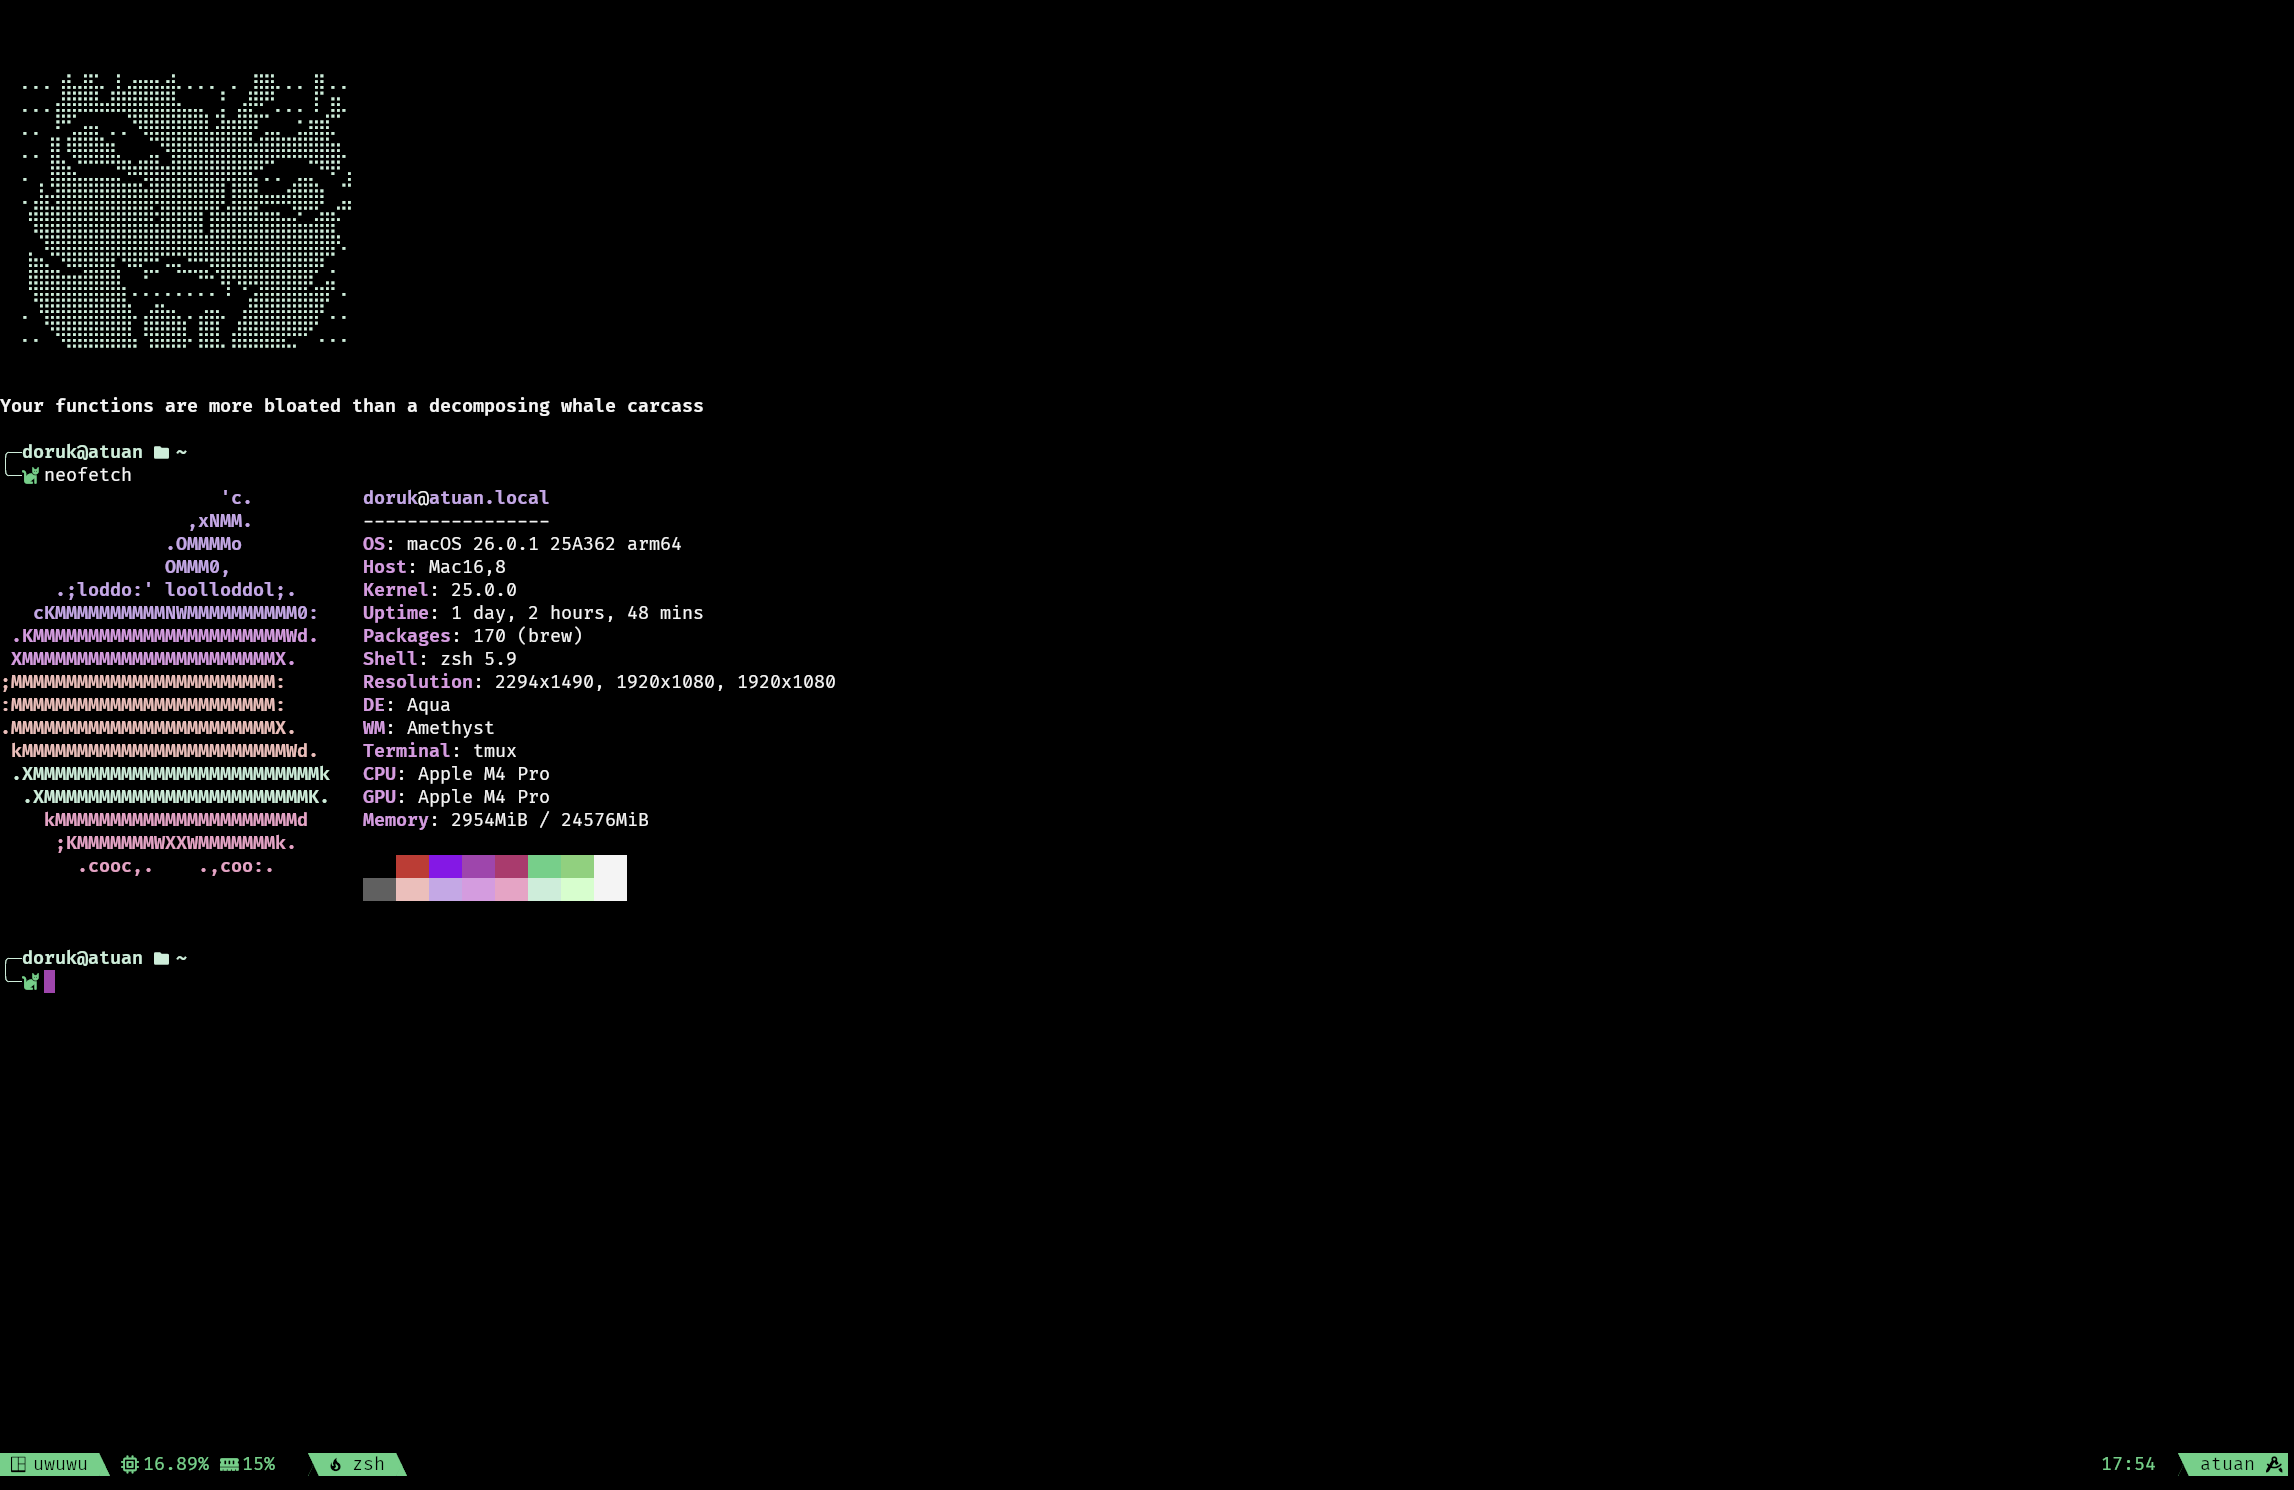
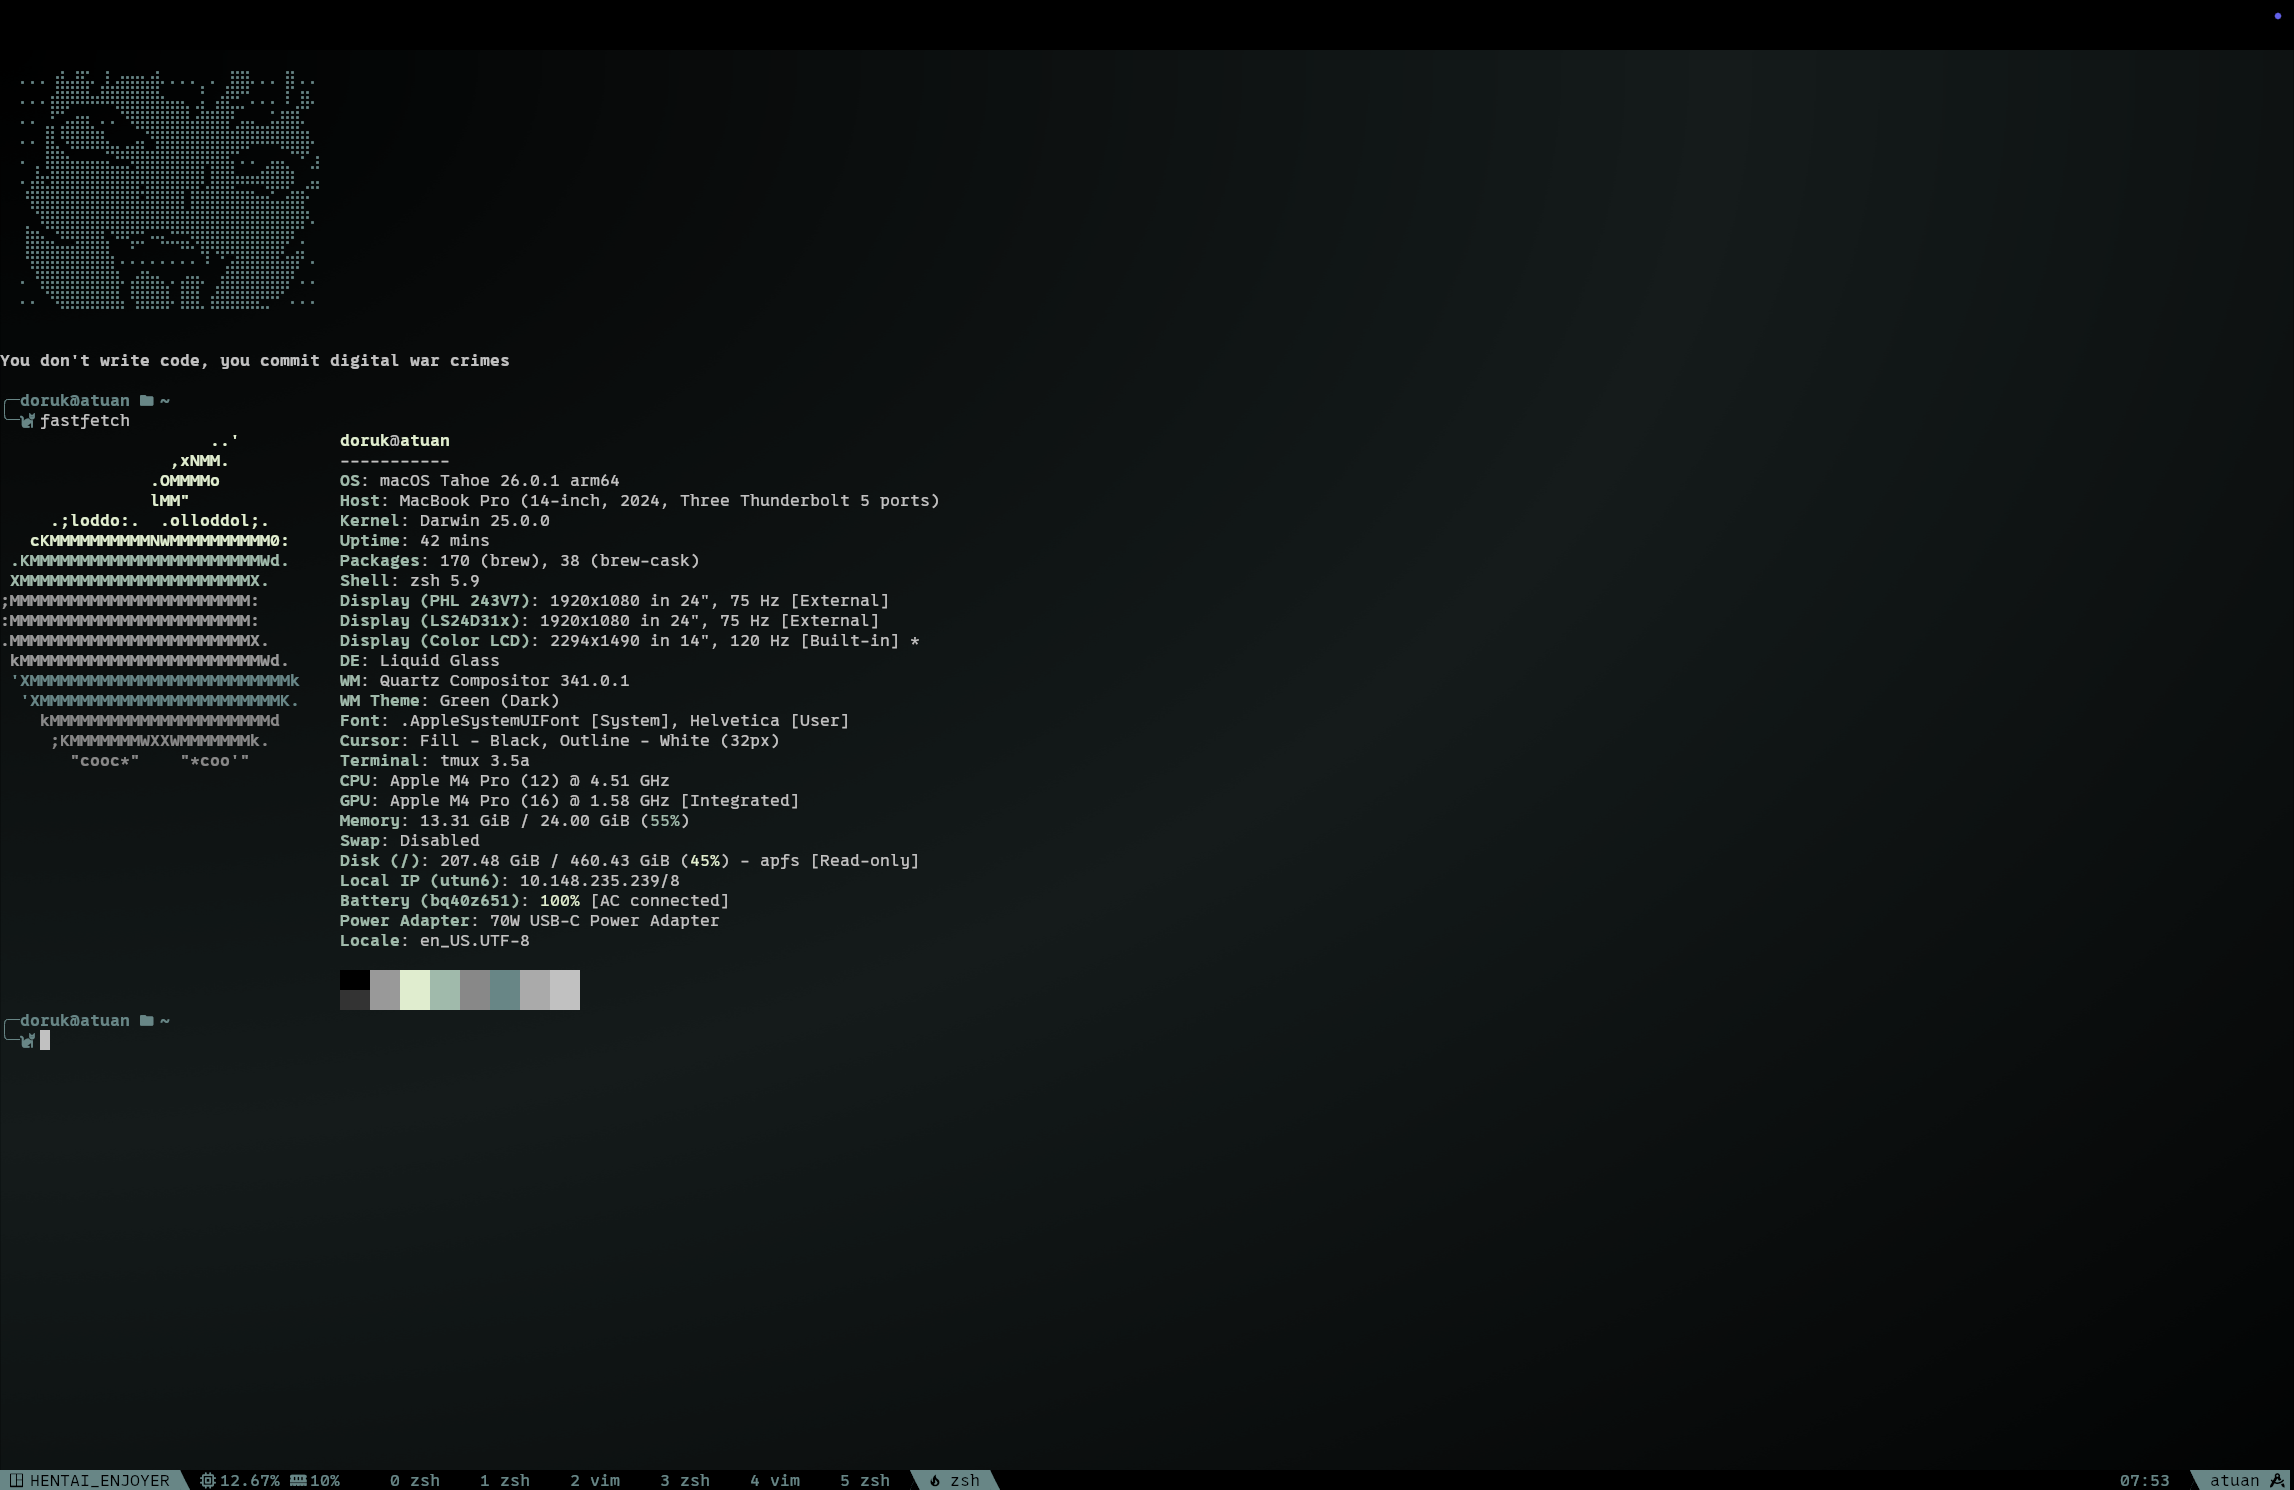
docs: screenshots updated with new theme

diff --git a/README.md b/README.md
@@ -1,6 +1,11 @@
 # Dotfiles
 
-Configurations for vim, tmux, zsh, git, and WezTerm. Uses Vim's native plugin management.
+## Configurations for vim, tmux, zsh, git, and WezTerm. Uses Vim's native plugin management.
+
+![screenshot](ss-1.png)
+![screenshot](ss-2.png)
+![screenshot](ss-3.png)
+![screenshot](ss-4.png)
 
 ## Requirements
 
